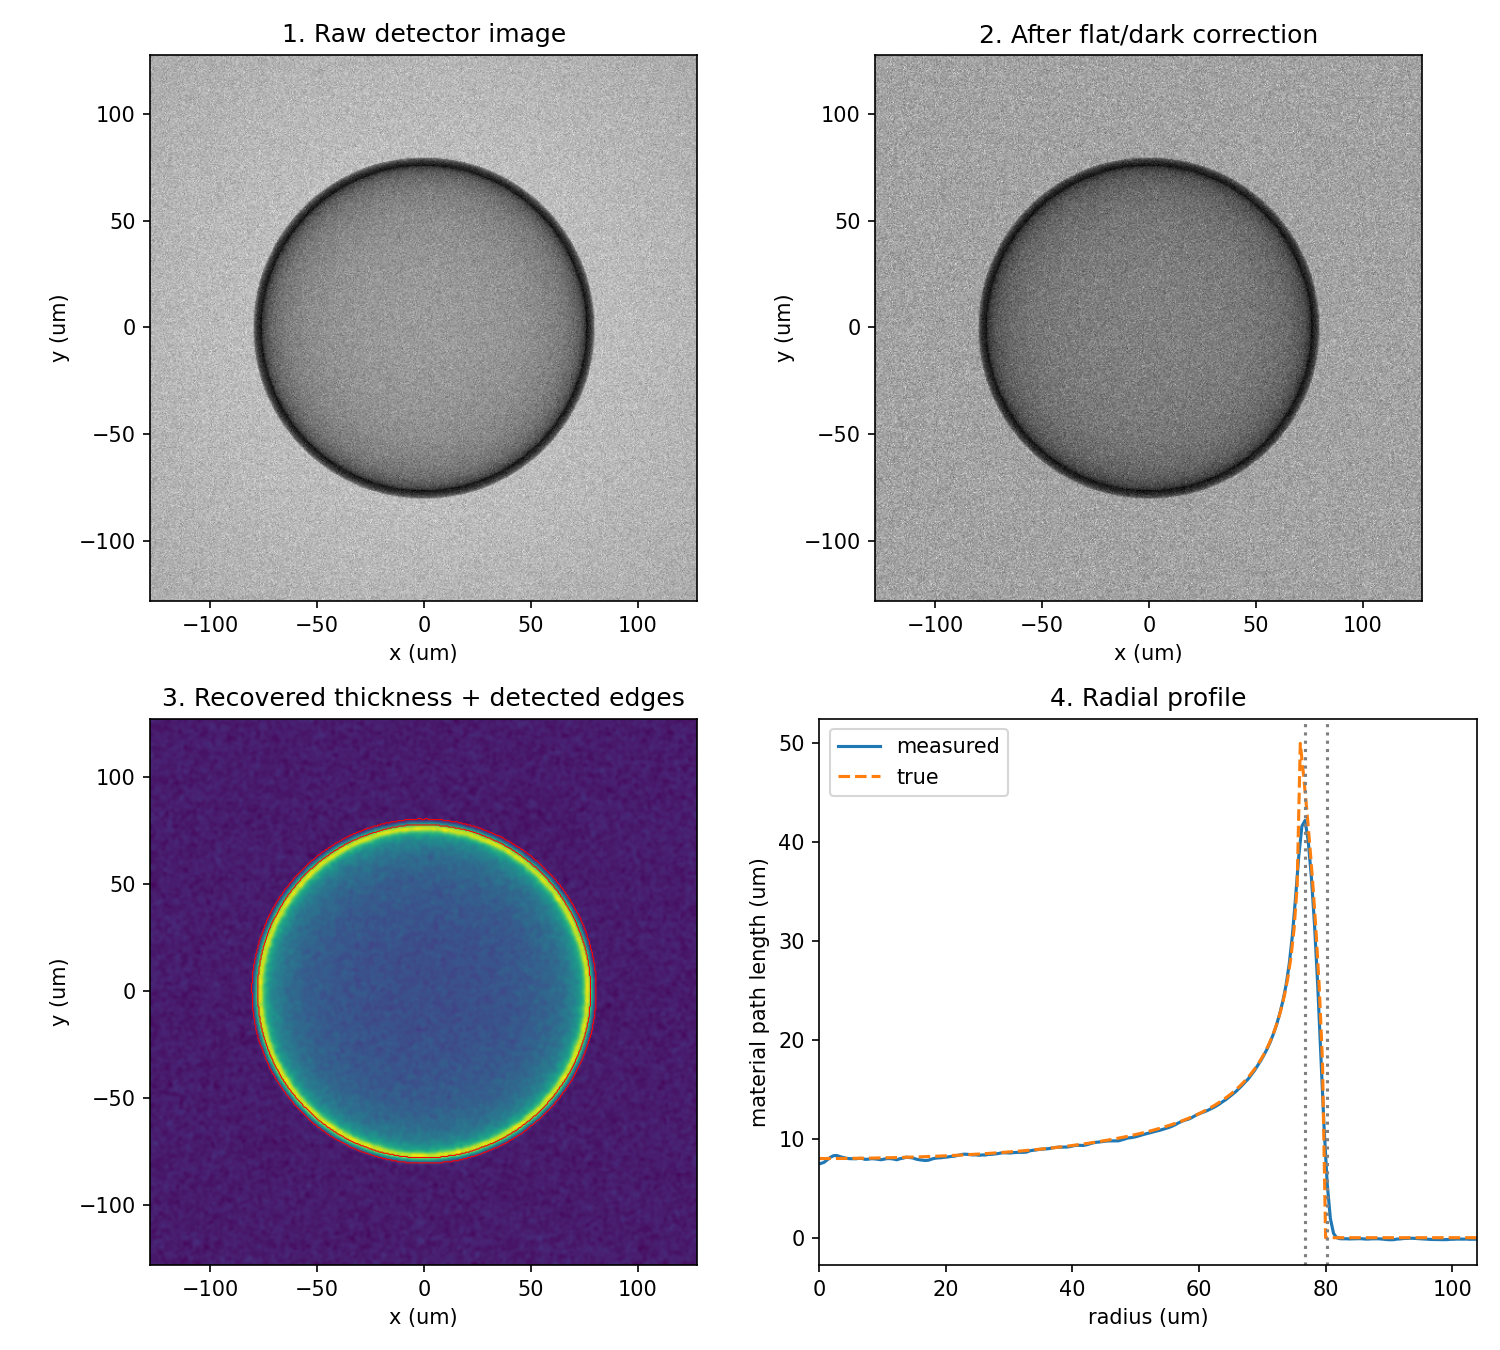
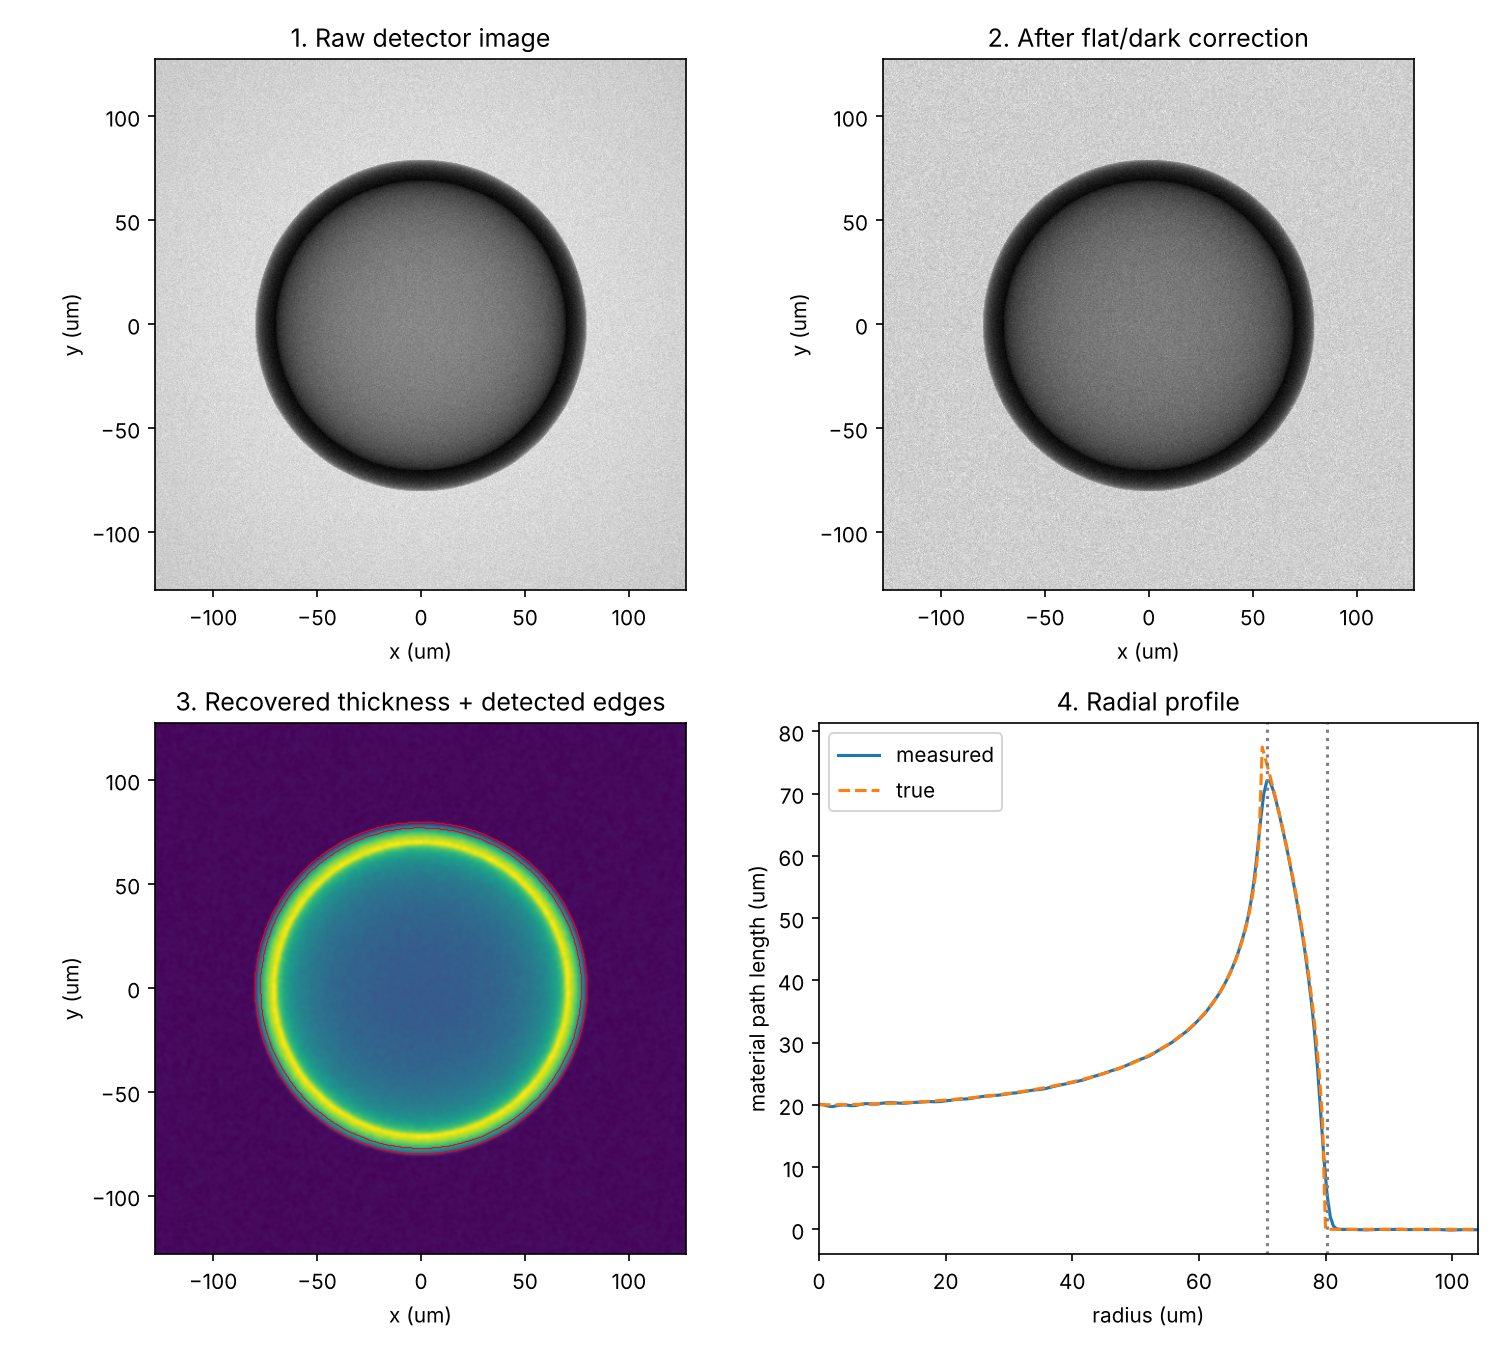
Fix profile bug and complete README
Fix nanmean typo in radial profile, fill invalid pixels before smoothing, reset default settings, regenerate results.png for the 10 µm shell.

diff --git a/xray_target_demo.py b/xray_target_demo.py
@@ -18,7 +18,7 @@ rng = np.random.default_rng(seed=1)   # fixed seed: results are reproducible
 N = 512          # image size in pixels
 PX = 0.5         # pixel size in micrometres
 R_OUT = 80.0     # true outer radius of the shell (um)
-R_IN = 76.0      # true inner radius of the shell (um)
+R_IN = 70.0      # true inner radius of the shell (um)
 MU = 0.02        # linear attenuation coefficient (1/um)
 
 # %% 1. Simulate the target
@@ -37,7 +37,7 @@ thickness_true = chord(R_OUT) - chord(R_IN)
 
 # %% 2. Add detector effects (what real data looks like)
 # Uneven beam profile (flat field), dark offset and photon (Poisson) noise
-flat = 300 * (1 + 0.2 * np.exp(-(x**2 + y**2) / (2 * 150**2)))
+flat = 1000 * (1 + 0.2 * np.exp(-(x**2 + y**2) / (2 * 150**2)))
 dark = 50.0
 
 raw = rng.poisson(flat * np.exp(-MU * thickness_true)) + dark   # sample image
@@ -48,6 +48,9 @@ dark_meas = rng.poisson(np.full_like(flat, 5)) + dark - 5       # detector with 
 # Removes the uneven beam and the detector offset
 denominator = flat_meas - dark_meas
 transmission = np.where(denominator > 0, (raw - dark_meas) / np.maximum(denominator, 1), np.nan)
+print("invalid pixels: %.1f%%" % (100 * np.isnan(transmission).mean()))
+# Fill invalid pixels with the mean so the Gaussian filter does not spread NaN
+transmission = np.where(np.isnan(transmission), np.nanmean(transmission), transmission)
 
 # %% 4. Noise reduction and thickness recovery (Beer-Lambert law)
 transmission_smooth = ndimage.gaussian_filter(transmission, sigma=1.5)
@@ -63,7 +66,7 @@ edges = gradient > np.percentile(gradient, 98)
 # %% 6. Measure the shell from the azimuthally averaged radial profile
 r_bins = np.arange(0, R_OUT * 1.5, PX)
 idx = np.digitize(r.ravel(), r_bins)
-profile = np.array([thickness_meas.ravel()[idx == i].np.nanmean(...) for i in range(1, len(r_bins))])
+profile = np.array([np.nanmean(thickness_meas.ravel()[idx == i]) for i in range(1, len(r_bins))])
 r_centres = r_bins[:-1] + PX / 2
 
 # Inner radius: thickness is largest where the X-ray grazes the inner surface

diff --git a/README.md b/README.md
@@ -1,3 +1,27 @@
+# X-ray imaging analysis of a simulated fusion target shell
+
+A Python pipeline that simulates an X-ray radiograph of a hollow spherical
+shell, similar to an inertial fusion capsule, and recovers its geometry from
+noisy detector data.
+
+![results](results.png)
+
+## What the script does
+1. Simulates a shell (outer radius 80 µm, inner radius 70 µm) and the X-ray path length through it
+2. Adds detector effects: uneven beam (flat field), dark offset and photon (Poisson) noise
+3. Applies flat- and dark-field correction, masking pixels with no counts in the flat field
+4. Smooths the image and recovers material thickness with the Beer-Lambert law
+5. Detects the shell edges with Sobel gradient filters
+6. Measures inner and outer radius from the azimuthally averaged radial profile
+7. Compares the measurement with the known true values
+
+## Results (default settings: 1000 photons per pixel)
+| | Measured | True |
+|---|---|---|
+| Inner radius | 70.8 µm | 70.0 µm |
+| Outer radius | 80.2 µm | 80.0 µm |
+| Shell thickness | 9.5 µm | 10.0 µm |
+
 ## Observations
 - **Smoothing trade-off:** stronger Gaussian smoothing (sigma 0.5 → 5) pushed both
   detected edges outward and changed the measured shell thickness from 9.5 to
@@ -16,3 +40,15 @@
   pixel the measured radii did not change, because the azimuthal average
   combines thousands of pixels at each radius. The remaining 0.5 µm error comes
   from smoothing, not from noise.
+
+## Limitations
+- Simulated data with absorption contrast only
+- No phase contrast or propagation effects, which dominate real XFEL images of low-Z targets
+- A single, perfectly centred target with no motion blur or detector artefacts
+
+## How to run
+Requires Python with numpy, scipy and matplotlib. Run `xray_target_demo.py`
+(in Spyder, press F5, or run cell by cell with Shift+Enter). The results are
+printed in the console and the figure is saved as `results.png`.
+
+Author: Savan Kanani
